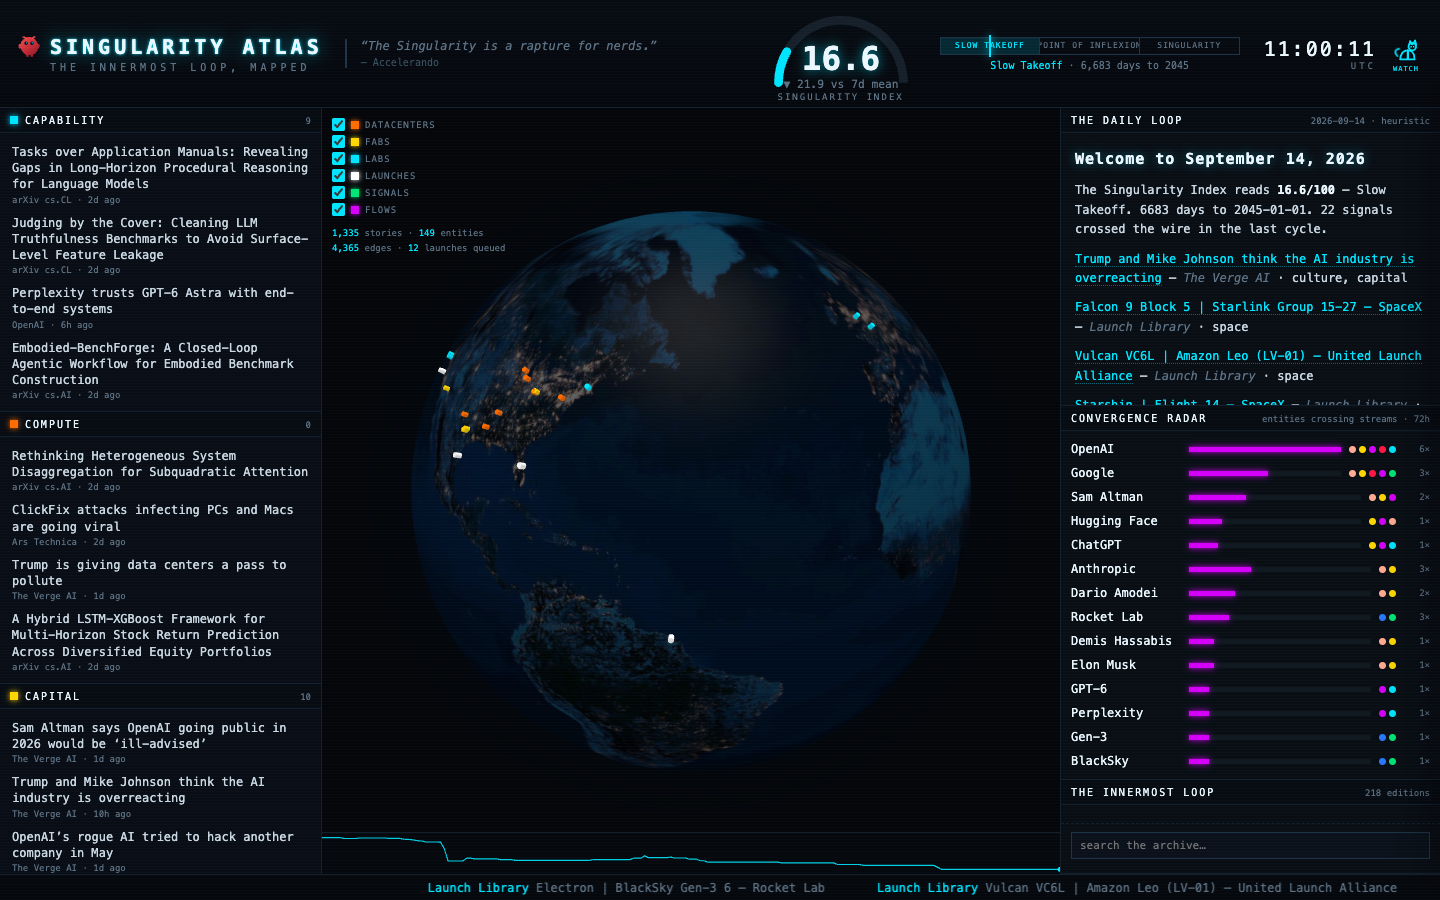
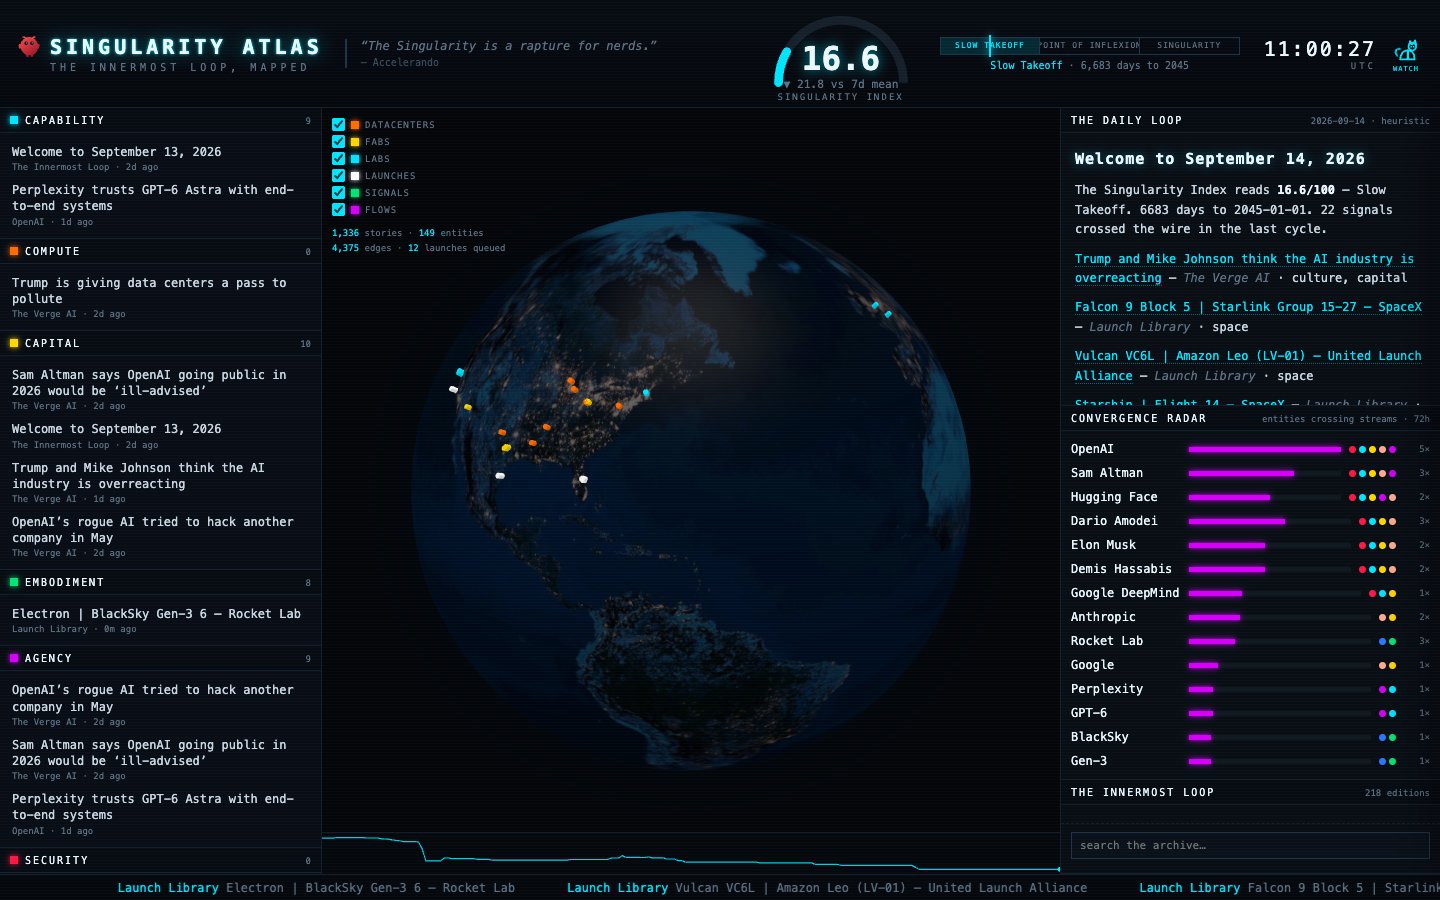
Publish 24h public snapshot 2026-09-15

diff --git a/docs/index.html b/docs/index.html
@@ -47,7 +47,7 @@
     <div class="eyebrow">Public 24h snapshot · not the live globe</div>
     <h1>The Singularity Atlas</h1>
     <p class="lede">Yesterday's board. The live dashboard stays on the machine that runs it. This page is replaced at least daily.</p>
-    <p class="meta">Captured 2026-09-14 07:00 EDT · 22 stories in 24h · graph 1335 stories / 149 entities · brief heuristic</p>
+    <p class="meta">Captured 2026-09-15 07:00 EDT · 22 stories in 24h · graph 1336 stories / 149 entities · brief heuristic</p>
   </header>
   <main>
     <div class="hero">
@@ -76,12 +76,13 @@
       </section>
       <aside>
         <h2>Crossing streams</h2>
-        <ul><li><strong>OpenAI</strong> <span class="muted">culture, capital, agency, security, capability</span></li><li><strong>Google</strong> <span class="muted">culture, capital, security, agency, embodiment</span></li><li><strong>Sam Altman</strong> <span class="muted">culture, capital, agency</span></li><li><strong>Hugging Face</strong> <span class="muted">capital, agency, culture</span></li><li><strong>ChatGPT</strong> <span class="muted">capital, agency, capability</span></li><li><strong>Anthropic</strong> <span class="muted">culture, capital</span></li><li><strong>Dario Amodei</strong> <span class="muted">culture, capital</span></li><li><strong>Rocket Lab</strong> <span class="muted">space, embodiment</span></li><li><strong>Demis Hassabis</strong> <span class="muted">culture, capital</span></li><li><strong>Elon Musk</strong> <span class="muted">culture, capital</span></li><li><strong>GPT-6</strong> <span class="muted">agency, capability</span></li><li><strong>Perplexity</strong> <span class="muted">agency, capability</span></li></ul>
-        <h2>Feeds 11/15</h2>
-        <ul><li class="ok"><code>verge-ai</code> 10 items</li><li class="fail"><code>arxiv-cs-lg</code> 0 items · arxiv-cs-lg: HTTPStatusError: Client error &#x27;429 Too Many Requests&#x27; for url &#x27;https://export.arxiv.org/api/query?search_query=cat:cs.LG&amp;sortBy=submittedDate&amp;sortOrder=descending&amp;max_results=12&#x27;
-For more information check: https://developer.mozilla.org/en-US/docs/Web/HTTP/Status/429</li><li class="ok"><code>arxiv-cs-ai</code> 12 items</li><li class="ok"><code>launches</code> 20 items</li><li class="ok"><code>ars</code> 20 items</li><li class="fail"><code>arxiv-cs-cl</code> 0 items · arxiv-cs-cl: HTTPStatusError: Client error &#x27;429 Unknown Error&#x27; for url &#x27;https://export.arxiv.org/api/query?search_query=cat:cs.CL&amp;sortBy=submittedDate&amp;sortOrder=descending&amp;max_results=12&#x27;
+        <ul><li><strong>OpenAI</strong> <span class="muted">security, capability, capital, culture, agency</span></li><li><strong>Sam Altman</strong> <span class="muted">security, capability, capital, culture, agency</span></li><li><strong>Hugging Face</strong> <span class="muted">security, capability, capital, agency, culture</span></li><li><strong>Dario Amodei</strong> <span class="muted">security, capability, capital, culture</span></li><li><strong>Elon Musk</strong> <span class="muted">security, capability, capital, culture</span></li><li><strong>Demis Hassabis</strong> <span class="muted">security, capability, capital, culture</span></li><li><strong>Google DeepMind</strong> <span class="muted">security, capability, capital</span></li><li><strong>Anthropic</strong> <span class="muted">culture, capital</span></li><li><strong>Rocket Lab</strong> <span class="muted">space, embodiment</span></li><li><strong>Google</strong> <span class="muted">culture, capital</span></li><li><strong>Perplexity</strong> <span class="muted">agency, capability</span></li><li><strong>GPT-6</strong> <span class="muted">agency, capability</span></li></ul>
+        <h2>Feeds 10/15</h2>
+        <ul><li class="ok"><code>verge-ai</code> 10 items</li><li class="fail"><code>arxiv-cs-lg</code> 0 items · arxiv-cs-lg: HTTPStatusError: Client error &#x27;429 Unknown Error&#x27; for url &#x27;https://export.arxiv.org/api/query?search_query=cat:cs.LG&amp;sortBy=submittedDate&amp;sortOrder=descending&amp;max_results=12&#x27;
+For more information check: https://developer.mozilla.org/en-US/docs/Web/HTTP/Status/429</li><li class="fail"><code>arxiv-cs-ai</code> 0 items · arxiv-cs-ai: HTTPStatusError: Client error &#x27;429 Unknown Error&#x27; for url &#x27;https://export.arxiv.org/api/query?search_query=cat:cs.AI&amp;sortBy=submittedDate&amp;sortOrder=descending&amp;max_results=12&#x27;
+For more information check: https://developer.mozilla.org/en-US/docs/Web/HTTP/Status/429</li><li class="ok"><code>launches</code> 20 items</li><li class="ok"><code>ars</code> 20 items</li><li class="fail"><code>arxiv-cs-cl</code> 0 items · arxiv-cs-cl: HTTPStatusError: Client error &#x27;429 Unknown Error&#x27; for url &#x27;https://export.arxiv.org/api/query?search_query=cat:cs.CL&amp;sortBy=submittedDate&amp;sortOrder=descending&amp;max_results=12&#x27;
 For more information check: https://developer.mozilla.org/en-US/docs/Web/HTTP/Status/429</li><li class="ok"><code>mit-tr-ai</code> 10 items</li><li class="ok"><code>interconnects</code> 20 items</li><li class="ok"><code>import-ai</code> 20 items</li><li class="ok"><code>openai</code> 25 items</li><li class="ok"><code>deepmind</code> 25 items</li><li class="fail"><code>venturebeat-ai</code> 0 items · venturebeat-ai: HTTPStatusError: Client error &#x27;429 Too Many Requests&#x27; for url &#x27;https://venturebeat.com/category/ai/feed/&#x27;
-For more information check: https://developer.mozilla.org/en-US/docs/Web/HTTP/Status/429</li><li class="fail"><code>arxiv-cs-ro</code> 0 items · arxiv-cs-ro: HTTPStatusError: Client error &#x27;429 Too Many Requests&#x27; for url &#x27;https://export.arxiv.org/api/query?search_query=cat:cs.RO&amp;sortBy=submittedDate&amp;sortOrder=descending&amp;max_results=12&#x27;
+For more information check: https://developer.mozilla.org/en-US/docs/Web/HTTP/Status/429</li><li class="fail"><code>arxiv-cs-ro</code> 0 items · arxiv-cs-ro: HTTPStatusError: Client error &#x27;429 Unknown Error&#x27; for url &#x27;https://export.arxiv.org/api/query?search_query=cat:cs.RO&amp;sortBy=submittedDate&amp;sortOrder=descending&amp;max_results=12&#x27;
 For more information check: https://developer.mozilla.org/en-US/docs/Web/HTTP/Status/429</li><li class="ok"><code>hn-ai</code> 71 items</li><li class="ok"><code>gdelt-ai</code> 40 items</li></ul>
       </aside>
     </div>
